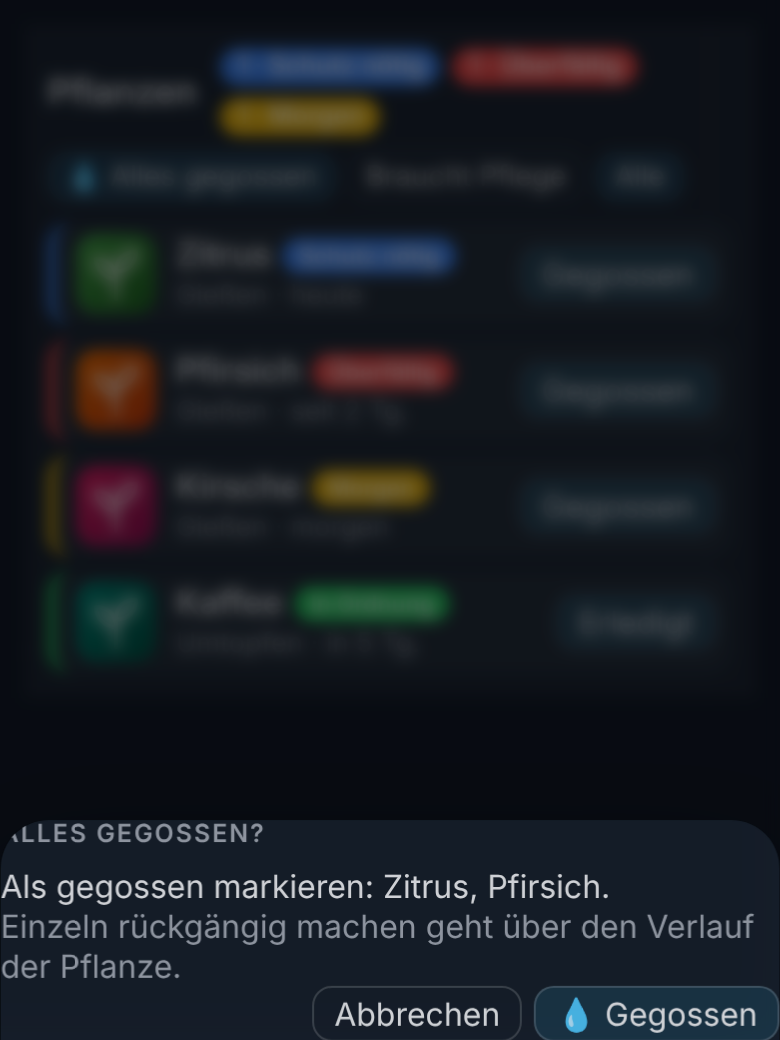
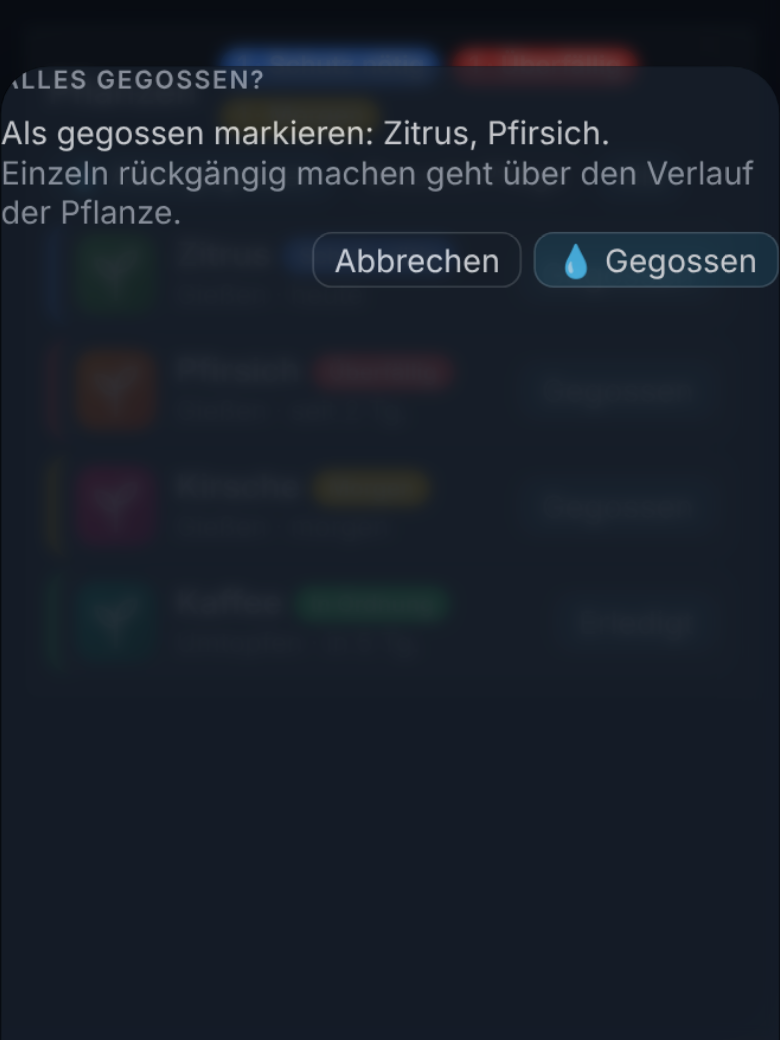
Card: fixed-size detail dialog with tabs
Claude-Session: https://claude.ai/code/session_01XDKhdpbGErx8Smh2Ru9UdD

diff --git a/custom_components/rootine/frontend/rootine-card.js b/custom_components/rootine/frontend/rootine-card.js
@@ -17,7 +17,7 @@ const T = {
     reason: { cold_now: "zu kalt", cold_forecast: "Kälte erwartet", heat_now: "zu heiß",
       heat_forecast: "Hitze erwartet", drop: "Wert stark gefallen", stale: "meldet nicht",
       battery_low: "Batterie schwach" },
-    done: "Erledigt", noFertilize: "Düngen", noFertilizeHint: "nicht nötig", noOther: "Weitere Aufgaben", noOtherHint: "keine", water: "Gegossen", fertilize: "Gedüngt", postpone: "Verschieben",
+    done: "Erledigt", noFertilize: "Düngen", noFertilizeHint: "nicht nötig", noOther: "Weitere Aufgaben", tabOverview: "Übersicht", tabCare: "Pflege", tabLog: "Verlauf", tabProfile: "Steckbrief", noCare: "Noch keine Pflegetexte. Unter „Bearbeiten“ ergänzen.", noOtherHint: "keine", water: "Gegossen", fertilize: "Gedüngt", postpone: "Verschieben",
     days: (n) => (n === 0 ? "heute" : n === 1 ? "morgen" : n < 0 ? `seit ${-n} Tg.` : `in ${n} Tg.`),
     details: "Details", close: "Schließen", edit: "Bearbeiten", save: "Speichern", cancel: "Abbrechen",
     photo: "Foto ändern", history: "Verlauf", undo: "Rückgängig", undone: "rückgängig",
@@ -45,7 +45,7 @@ const T = {
     reason: { cold_now: "too cold", cold_forecast: "cold expected", heat_now: "too hot",
       heat_forecast: "heat expected", drop: "value dropped", stale: "not reporting",
       battery_low: "battery low" },
-    done: "Done", noFertilize: "Fertilize", noFertilizeHint: "not needed", noOther: "Other tasks", noOtherHint: "none", water: "Watered", fertilize: "Fertilized", postpone: "Postpone",
+    done: "Done", noFertilize: "Fertilize", noFertilizeHint: "not needed", noOther: "Other tasks", tabOverview: "Overview", tabCare: "Care", tabLog: "History", tabProfile: "Profile", noCare: "No care notes yet. Add them under Edit.", noOtherHint: "none", water: "Watered", fertilize: "Fertilized", postpone: "Postpone",
     days: (n) => (n === 0 ? "today" : n === 1 ? "tomorrow" : n < 0 ? `${-n}d overdue` : `in ${n}d`),
     details: "Details", close: "Close", edit: "Edit", save: "Save", cancel: "Cancel",
     photo: "Change photo", history: "History", undo: "Undo", undone: "undone",
@@ -153,7 +153,7 @@ svg.chart { width: 100%; height: 130px; display: block; }
 .legend { margin-top: 6px; display: flex; gap: 12px; font-size: .8em; color: var(--secondary-text-color); }
 .overlay { position: fixed; inset: 0; z-index: 9; background: rgba(0,0,0,.55); backdrop-filter: blur(4px); display: flex;
   align-items: center; justify-content: center; padding: 12px; animation: fade .18s ease; }
-.dialog { --accent: var(--primary-color); width: min(760px, 100%); max-height: 92vh; overflow: auto; border-radius: 24px; padding: 0;
+.dialog { --accent: var(--primary-color); width: min(760px, 100%); height: min(780px, 92vh); overflow: hidden; border-radius: 24px; padding: 0;
   background: var(--ha-card-background, var(--card-background-color)); color: var(--primary-text-color);
   backdrop-filter: blur(16px); display: flex; flex-direction: column; gap: 0; box-shadow: 0 24px 60px rgba(0,0,0,.45);
   animation: rise .22s ease; }
@@ -170,7 +170,12 @@ svg.chart { width: 100%; height: 130px; display: block; }
 .hero .chip { font-size: .85em; padding: 3px 12px; }
 .hero .x { position: absolute; top: 12px; right: 12px; width: 34px; height: 34px; padding: 0; border-radius: 50%; font-size: 1.2em; line-height: 1;
   background: color-mix(in srgb, var(--primary-text-color) 12%, transparent); border-color: transparent; }
-.body { display: flex; flex-direction: column; gap: 14px; padding: 6px 20px 20px; }
+.body { display: flex; flex-direction: column; gap: 14px; padding: 6px 20px 20px; flex: 1; min-height: 0; overflow: auto; }
+.panel { display: flex; flex-direction: column; gap: 14px; }
+[hidden] { display: none !important; }
+.tabs { display: flex; gap: 6px; padding: 4px 20px 10px; flex: none; }
+.tabs button { border-radius: 999px; padding: 6px 16px; background: transparent; }
+.tabs button.on { background: var(--accent); color: #fff; border-color: transparent; font-weight: 600; }
 .tiles { display: grid; grid-template-columns: repeat(auto-fit, minmax(150px, 1fr)); gap: 8px; }
 .tile { display: flex; flex-direction: column; gap: 4px; padding: 10px 12px; border-radius: 14px; border: 1px solid transparent;
   background: color-mix(in srgb, var(--primary-text-color) 6%, transparent); }
@@ -194,7 +199,8 @@ svg.chart { width: 100%; height: 130px; display: block; }
 .timeline .t { flex: 1; } .timeline .t b { font-weight: 600; }
 @media (max-width: 560px) {
   .overlay { align-items: flex-end; padding: 0; }
-  .dialog { width: 100%; max-height: 94vh; border-radius: 24px 24px 0 0; }
+  .dialog { width: 100%; height: 94vh; border-radius: 24px 24px 0 0; }
+  .tabs { padding: 2px 14px 8px; overflow-x: auto; }
   .hero { padding: 18px 16px 14px; } .hero .pic { width: 72px; height: 72px; } .hero .title .name { font-size: 1.35em; }
   .body { padding: 4px 14px 18px; }
 }
@@ -326,9 +332,9 @@ class RootineCard extends HTMLElement {
            <button class="${this._filter === "needs" ? "" : "ghost"}" data-filter="needs">${t.needs}</button>
            <button class="${this._filter === "all" ? "" : "ghost"}" data-filter="all">${t.all}</button></div></div>`
       : "";
-    const keep = this.shadowRoot.querySelector(".dialog")?.scrollTop || 0;
+    const keep = this.shadowRoot.querySelector(".dialog .body")?.scrollTop || 0;
     this.shadowRoot.innerHTML = `<style>${STYLE}</style><ha-card class="${this._compact ? "compact" : ""}">${head}${body}</ha-card>${this._dialog ? this._dialogHtml() : ""}${this._confirm ? this._confirmHtml() : ""}`;
-    if (keep) { const dlg = this.shadowRoot.querySelector(".dialog"); if (dlg) dlg.scrollTop = keep; }
+    if (keep) { const dlg = this.shadowRoot.querySelector(".dialog .body"); if (dlg) dlg.scrollTop = keep; }
     this._bind();
     if (this._dialog) this._afterDialog();
     if (this._confirm) this._afterConfirm();
@@ -549,6 +555,7 @@ class RootineCard extends HTMLElement {
     const a = st.attributes, p = a.profile;
     const name = a.friendly_name?.replace(/ (Pflegestatus|Care status)$/i, "") || d.id;
     const accent = COLORS[st.state] || COLORS.unknown;
+    const tab = d.tab || "overview";
     const pic = a.entity_picture ? `<img class="pic" src="${esc(a.entity_picture)}" alt="">` : `<div class="pic">🌱</div>`;
     const bg = a.entity_picture ? `<div class="bg" style="background-image:url('${esc(a.entity_picture)}')"></div>` : "";
     const taskOptions = this._items(a).map((i) => `<option value="${esc(i.key)}">${esc(i.name)}</option>`).join("");
@@ -559,7 +566,7 @@ class RootineCard extends HTMLElement {
     const plainFields = PROFILE_FIELDS.filter((f) => !careFields.includes(f));
     const facts = plainFields.map((f) => kv(t.fields[f], p[f] ?? "", false)).join("");
     const care = careFields.filter((f) => p[f]).map((f) => `<div><div class="k">${esc(t.fields[f])}</div>${markdown(p[f])}</div>`).join("");
-    const view = `${facts ? `<div class="sec"><h3>${t.edit === "Bearbeiten" ? "Steckbrief" : "Profile"}</h3><dl class="kv">${facts}</dl></div>` : ""}${care ? `<div class="care">${care}</div>` : ""}`;
+    const factsHtml = facts ? `<div class="sec"><h3>${t.tabProfile}</h3><dl class="kv">${facts}</dl></div>` : "";
     const form = `<form class="edit sec" data-form>${PROFILE_FIELDS.map((f) => {
       const multi = f.startsWith("care.") || f === "notes";
       return `<label>${esc(t.fields[f])}</label>${multi ? `<textarea name="${f}" rows="3">${esc(p[f] ?? "")}</textarea>` : `<input name="${f}" value="${esc(p[f] ?? "")}">`}`;
@@ -569,17 +576,23 @@ class RootineCard extends HTMLElement {
     return `<div class="overlay" data-overlay><div class="dialog" style="--accent:${accent}">
       <div class="hero">${bg}${pic}<div class="title"><div class="name">${esc(name)}</div><div class="sub">${esc([p.common_name, p.species].filter(Boolean).join(" · "))}</div>${this._chip(st.state)}</div>
         <button class="ghost x" data-close aria-label="${t.close}">✕</button></div>
+      <div class="tabs" role="tablist">${[["overview", t.tabOverview], ["care", t.tabCare], ["log", t.tabLog]].map(([k, l]) => `<button class="${tab === k ? "on" : "ghost"}" role="tab" aria-selected="${tab === k}" data-tab="${k}">${esc(l)}</button>`).join("")}</div>
       <div class="body">
+      <div class="panel" data-panel="overview" ${tab === "overview" || d.edit ? "" : "hidden"}>
       ${tiles ? `<div class="tiles">${tiles}</div>` : ""}
       <div class="toolbar"><button data-photo>📷 ${t.photo}</button><input type="file" accept="image/*" data-file hidden>
         ${locSelect ? `<select data-location>${["outdoor", "indoor"].map((o) => `<option value="${o}" ${this._hass.states[locSelect].state === o ? "selected" : ""}>${t[o]}</option>`).join("")}</select>` : ""}
         <button class="ghost" data-edit>✎ ${t.edit}</button></div>
-      ${d.edit ? form : view}
-      ${d.chart ? `<div class="sec">${this._chartSvg(d.chart)}</div>` : ""}
+      ${d.edit ? form : factsHtml}
+      ${d.chart && !d.edit ? `<div class="sec">${this._chartSvg(d.chart)}</div>` : ""}
+      </div>
+      <div class="panel" data-panel="care" ${tab === "care" && !d.edit ? "" : "hidden"}>${care ? `<div class="care">${care}</div>` : `<div class="muted">${t.noCare}</div>`}</div>
+      <div class="panel" data-panel="log" ${tab === "log" && !d.edit ? "" : "hidden"}>
       <div class="sec"><h3>${t.postpone} / ${t.backfill}</h3>
       <div class="row"><select data-task>${taskOptions}</select><input type="date" data-date value="${new Date().toISOString().slice(0, 10)}">
         <button data-backfill>${t.backfill}</button><input type="number" min="1" max="60" value="1" data-days style="max-width:5em"><button data-postpone>${t.postpone}</button></div></div>
-      ${log ? `<div class="sec"><h3>${t.history}</h3><div class="timeline">${log}</div></div>` : ""}</div></div></div>`;
+      ${log ? `<div class="sec"><h3>${t.history}</h3><div class="timeline">${log}</div></div>` : ""}</div>
+      </div></div></div>`;
   }
 
   _afterDialog() {
@@ -587,6 +600,7 @@ class RootineCard extends HTMLElement {
     const q = (s) => root.querySelector(s);
     q("[data-close]")?.addEventListener("click", () => this._close());
     q("[data-overlay]")?.addEventListener("click", (e) => { if (e.target.dataset.overlay !== undefined) this._close(); });
+    root.querySelectorAll("[data-tab]").forEach((b) => b.addEventListener("click", () => { d.tab = b.dataset.tab; d.edit = false; this._render(); }));
     q("[data-edit]")?.addEventListener("click", () => { d.edit = !d.edit; this._render(); });
     q("[data-cancel]")?.addEventListener("click", () => { d.edit = false; this._render(); });
     q("[data-edit]")?.setAttribute("aria-pressed", d.edit ? "true" : "false");

diff --git a/custom_components/rootine/const.py b/custom_components/rootine/const.py
@@ -3,7 +3,7 @@
 from __future__ import annotations
 
 DOMAIN = "rootine"
-VERSION = "1.2.3"  # keep in sync with manifest.json
+VERSION = "1.2.4"  # keep in sync with manifest.json
 SUBENTRY_PLANT = "plant"
 
 # Haupteintrag (Optionen)

diff --git a/CHANGELOG.md b/CHANGELOG.md
@@ -1,5 +1,11 @@
 # Changelog
 
+## 1.2.4
+
+**Geändert**
+
+- Der Details-Dialog hat bei jeder Pflanze dieselbe Größe und drei Reiter: Übersicht (Aufgaben, Steckbrief, Diagramm), Pflege (Pflegetexte) und Verlauf (Verschieben, Nachtragen, Verlauf). Lange Texte scrollen nur im Inhalt, der Kopf mit Foto und Name bleibt stehen.
+
 ## 1.2.3
 
 **Geändert**
